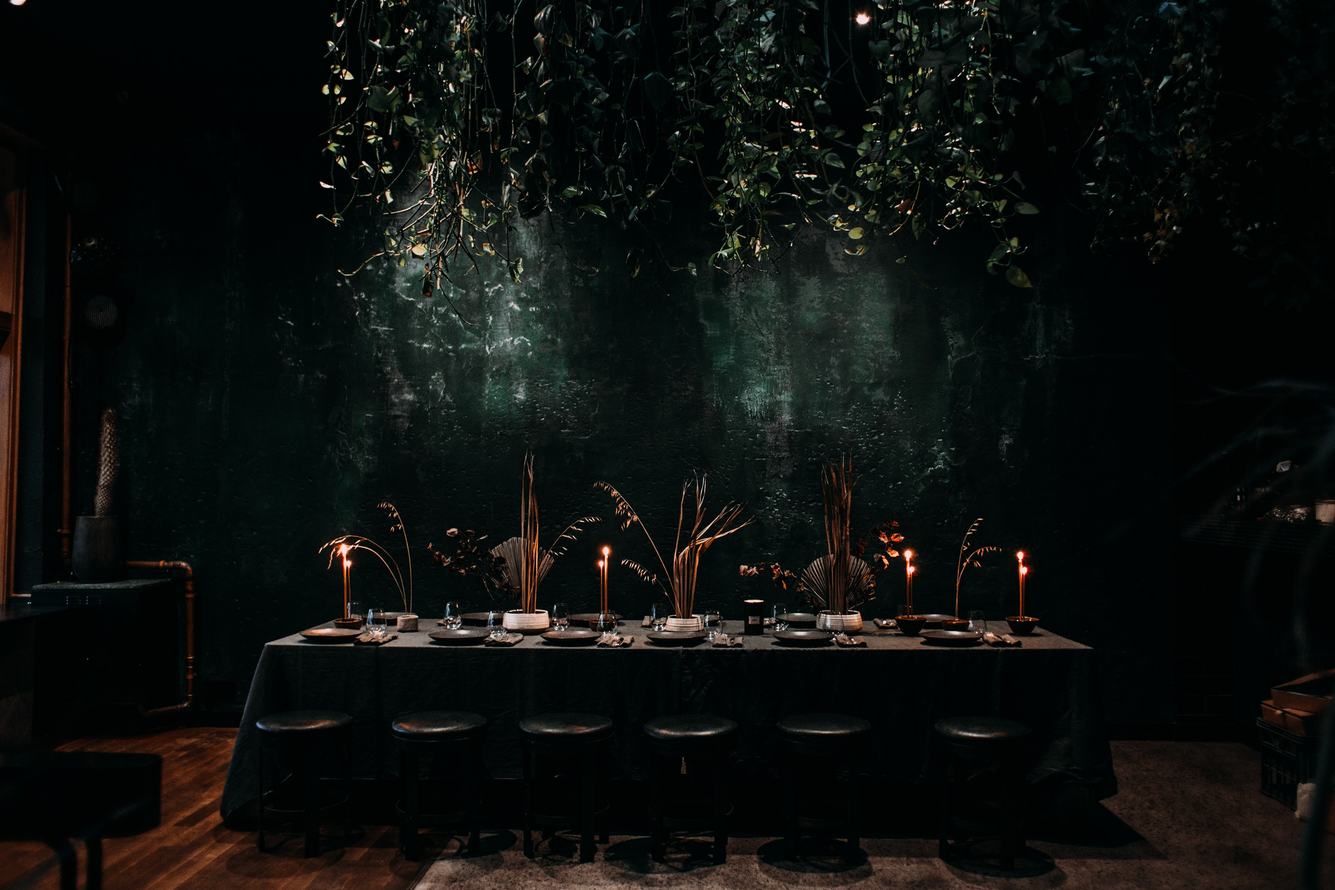
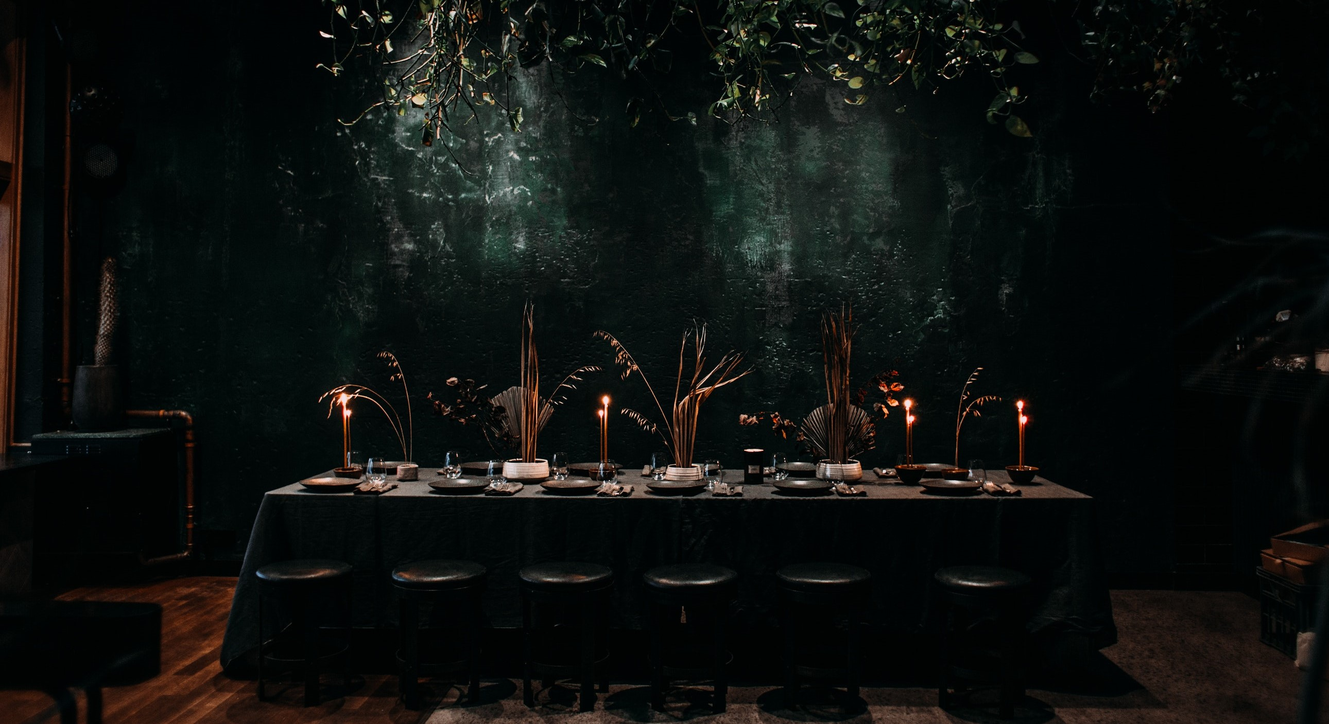
Cambios de Bootstrap

diff --git a/paginas/reservas.html b/paginas/reservas.html
@@ -4,6 +4,7 @@
     <meta charset="UTF-8">
     <meta http-equiv="X-UA-Compatible" content="IE=edge">
     <meta name="viewport" content="width=device-width, initial-scale=1.0">
+    <link href="https://cdn.jsdelivr.net/npm/bootstrap@5.1.1/dist/css/bootstrap.min.css" rel="stylesheet" integrity="sha384-F3w7mX95PdgyTmZZMECAngseQB83DfGTowi0iMjiWaeVhAn4FJkqJByhZMI3AhiU" crossorigin="anonymous">
     <link rel="stylesheet" href="../stylee.css">
     <link href="https://fonts.googleapis.com/css2?family=Style+Script&display=swap" rel="stylesheet">
     <title>Document</title>
@@ -26,7 +27,33 @@
 
     <main class="main-reservas">
         <section class="section1-reservas">
-            <p class="p-reservas">Reserva tu mesa en Logos</p>
+            <div id="carouselExampleIndicators" class="carousel slide" data-bs-ride="carousel">
+                <div class="carousel-indicators">
+                  <button type="button" data-bs-target="#carouselExampleIndicators" data-bs-slide-to="0" class="active" aria-current="true" aria-label="Slide 1"></button>
+                  <button type="button" data-bs-target="#carouselExampleIndicators" data-bs-slide-to="1" aria-label="Slide 2"></button>
+                  <button type="button" data-bs-target="#carouselExampleIndicators" data-bs-slide-to="2" aria-label="Slide 3"></button>
+                </div>
+                <div class="carousel-inner">
+                  <div class="carousel-item active">
+                    <img src="/imagenes/pexels-rachel-claire-4577179.jpg" class="d-block w-100" alt="Mesa decorada">
+                  </div>
+                  <div class="carousel-item">
+                    <img src="/imagenes/pexels-andrea-piacquadio-3937468.jpg" class="d-block w-100" alt="Gente charlando">
+                  </div>
+                  <div class="carousel-item">
+                    <img src="/imagenes/pexels-jonathan-borba-2878741.jpg" class="d-block w-100" alt="Plato servido">
+                  </div>
+                </div>
+                <button class="carousel-control-prev" type="button" data-bs-target="#carouselExampleIndicators" data-bs-slide="prev">
+                  <span class="carousel-control-prev-icon" aria-hidden="true"></span>
+                  <span class="visually-hidden">Previous</span>
+                </button>
+                <button class="carousel-control-next" type="button" data-bs-target="#carouselExampleIndicators" data-bs-slide="next">
+                  <span class="carousel-control-next-icon" aria-hidden="true"></span>
+                  <span class="visually-hidden">Next</span>
+                </button>
+              </div>
+            
         </section>
         <section>
 
@@ -44,34 +71,35 @@
             <h4 class="h4-reserva">Horario de cierre del restaurante:</h4>
             
              <p class="p5r"> 18:00h servicio de comida</p>
-        </section>  
-        <section>
-            <form action="">
-                <label for="seleccion-personas">Personas</label>
-                <select class="seleccion-personas">
-                    <option value="1">1 Persona</option>
-                    <option value="2">2 Personas</option>
-                    <option value="3">3 Personas</option>
-                    <option value="4">4 Personas</option>
-                    <option value="5">5 Personas</option>
-                    <option value="6">6 Personas</option>
-                </select>
-                <label for="seleccion-hora">Hora</label>
-                <select class="seleccion-hora">
-                    <option value="13:30">13:30</option>
-                    <option value="20:20">20:20</option>
-                    <option value="21:00">21:00</option>
-                </select>
-
-                <ul>
-                    <li><button type="submit">ENVIAR</li>
-                </ul>
-               
-            </form>  
         </section>
+        <section>  
+          <div class="row g-3">
+            <div class="col">
+              <select class="form-select form-select-lg mb-3" aria-label=".form-select-lg example">
+                <option selected>Horario</option>
+                <option value="1">22:00</option>
+                <option value="2">21:45</option>
+                <option value="3">13:40</option>
+              </select>
+            </div>
+            <div class="col">
+              <select class="form-select form-select-lg mb-3" aria-label=".form-select-lg example">
+                <option selected>Personas</option>
+                <option value="1">1 persona</option>
+                <option value="2">2 personas</option>
+                <option value="3">3 personas</option>
+                <option value="3">4 personas</option>
+                <option value="3">5 personas</option>
+                <option value="3">6 personas</option>
+              </select>
+            </div>
+          </div>
+        
+        
     </main>
     <footer>
         &#9400opyrigth  
     </footer>
+    <script src="https://cdn.jsdelivr.net/npm/bootstrap@5.1.1/dist/js/bootstrap.bundle.min.js" integrity="sha384-/bQdsTh/da6pkI1MST/rWKFNjaCP5gBSY4sEBT38Q/9RBh9AH40zEOg7Hlq2THRZ" crossorigin="anonymous"></script>
 </body>
 </html>

diff --git a/stylee.css b/stylee.css
@@ -93,7 +93,7 @@ footer {
 .fondo-carta {
   width: 1000px;
   height: 1000px;
-  background-image: url(/imagenes/WhatsApp\ Image\ 2021-09-01\ at\ 19.52.30.jpeg);
+  background-image: url(./imagenes/WhatsApp\ Image\ 2021-09-01\ at\ 19.52.30.jpeg);
   background-repeat: no-repeat;
   margin-left: 300px;
 }
@@ -101,23 +101,11 @@ footer {
 /*FIN DE CARTA*/
 
 /*COMIENZO RESERVAS*/
-
-.section1-reservas {
-  background-image: url(/imagenes/pexels-rachel-claire-4577179.jpg);
+.carousel-inner img {
+  height: 600px;
   width: 100%;
-  height: 100vh;
-  background-size: cover;
-  background-repeat: no-repeat;
-  background-position: bottom;
+  object-fit: cover;
 }
-.p-reservas {
-  color: white;
-  font-size: 30px;
-  font-family: "Style Script", cursive;
-  padding-top: 150px;
-  text-align: center;
-}
-
 .h2-reserva {
   font-family: "Style Script", cursive;
   font-size: 30px;
@@ -154,7 +142,7 @@ footer {
   font-size: 20px;
   font-family: sans-serif;
   font-weight: inherit;
-  margin-bottom: 50px;
+  margin-bottom: 100px;
 }
 /*FIN DE RESERVAS*/
 
@@ -168,10 +156,8 @@ footer {
   margin: 40px 0px 10px 0px;
   font-weight: 1;
   font-size: 60px;
-  /*border-bottom: 1px solid rgb(119, 118, 115);*/
+  border-bottom: 1px solid rgb(119, 118, 115);
   padding-bottom: 50px;
-  background: linear-gradient(rgb(226, 167, 6), white);
-  border-radius: 100px;
 }
 .galeria {
   display: grid;
@@ -227,6 +213,7 @@ textarea {
   resize: none;
   border-bottom: 2px solid;
   margin-top: 70px;
+  margin-bottom: 15px;
 }
 input:focus,
 textarea:focus {
